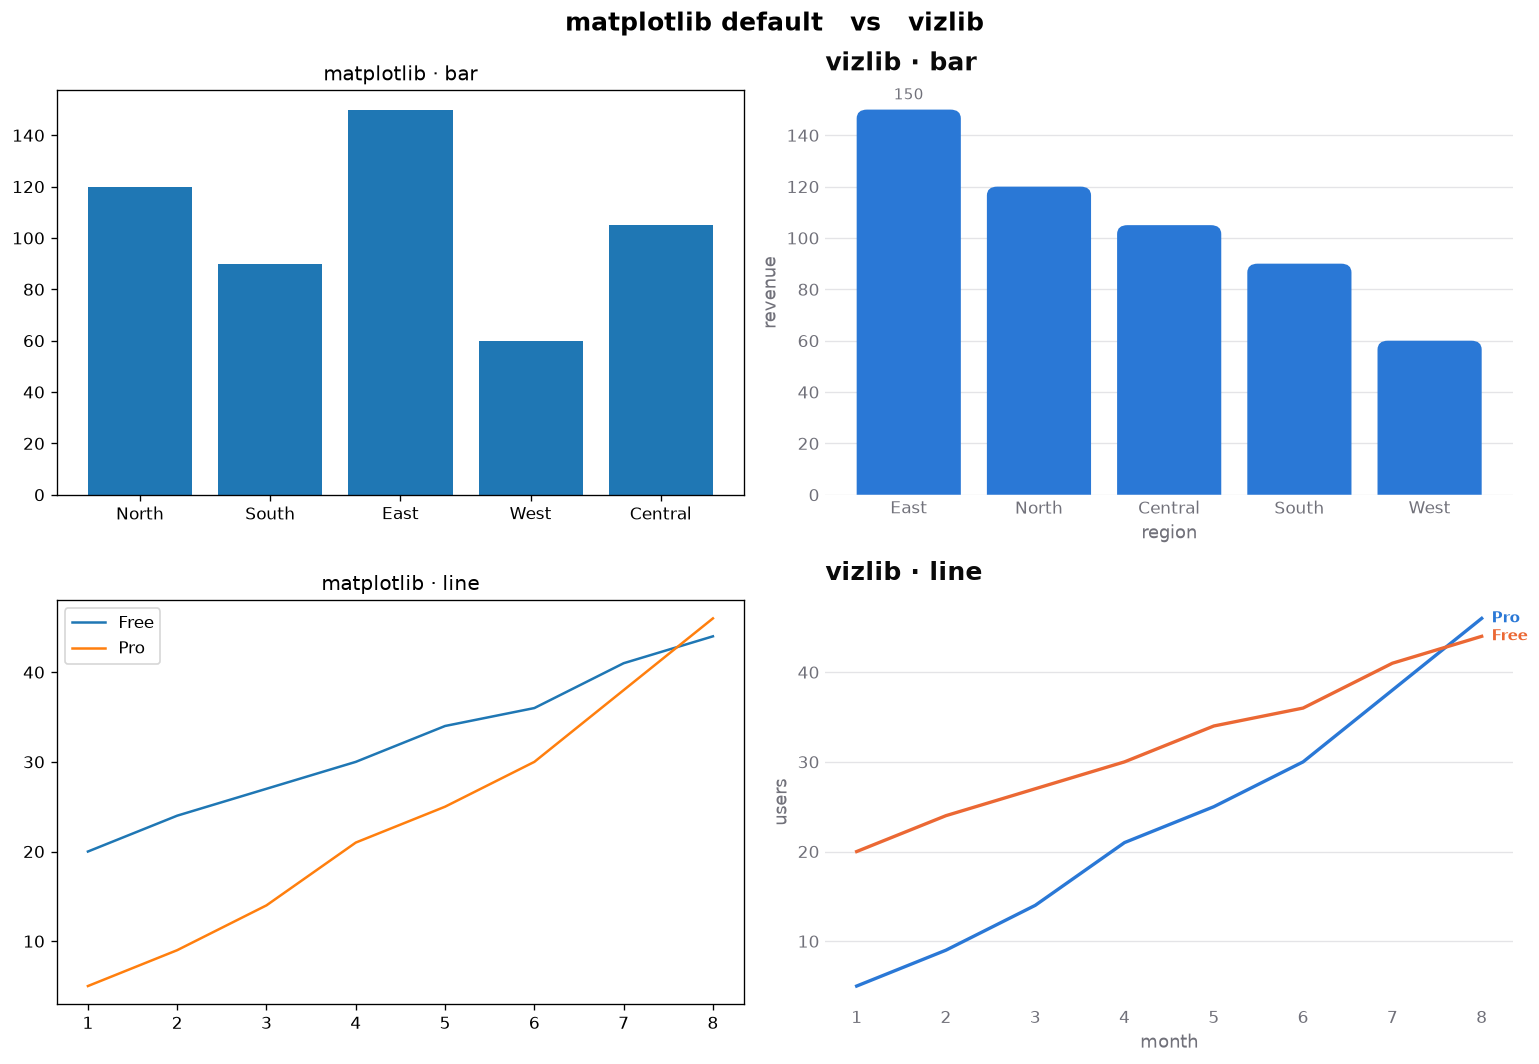
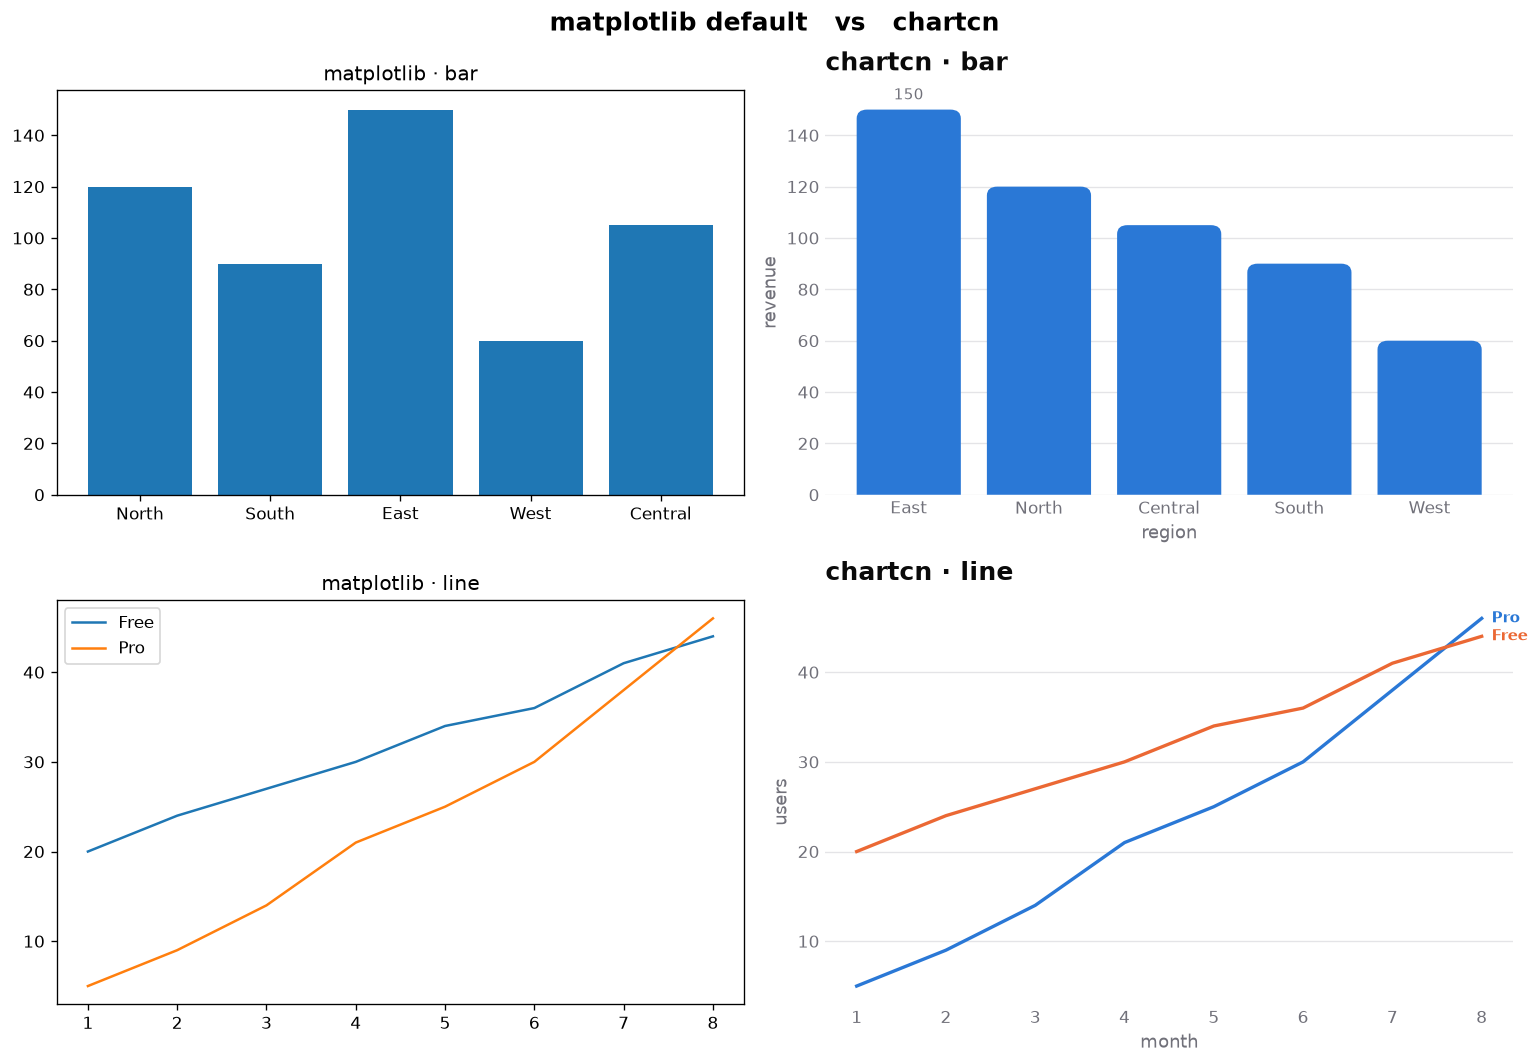
Rename package to chartcn and finish 0.1.0 packaging
Adopt the final distribution name and tidy the metadata for a first PyPI
release. Renames the import package vizlib -> chartcn (dir + all imports and
prose) so the import name matches the distribution name, and drops the
"working name / placeholder" banners now that the name is settled.

- pyproject: name = "chartcn"; wheel packages -> src/chartcn; add
  [project.urls] (Homepage/Repository/Issues); add "shadcn" keyword.
- src/vizlib -> src/chartcn (git rename; internals already use relative
  imports); update every `import vizlib` in tests/examples to chartcn.
- Docs (README/CLAUDE/mvp/examples): rename the product, remove the
  working-name notes.
- Add CHANGELOG.md with the 0.1.0 release notes.

Verified: 285 tests pass, ruff/black clean, `python -m build` produces
chartcn-0.1.0 wheel + sdist, and `twine check` passes on both.

Claude-Session: https://claude.ai/code/session_01SHA1ht7BUdjWvcxKPRCqGK

Changed region(s): [[0.3431, 0.0, 0.655, 0.093], [0.5302, 0.5273, 0.655, 0.5583]]

diff --git a/examples/before_after.py b/examples/before_after.py
@@ -1,8 +1,8 @@
-"""matplotlib default vs vizlib — the same data, the same one call.
+"""matplotlib default vs chartcn — the same data, the same one call.
 
-Each row draws a chart with raw matplotlib defaults (left) and with vizlib (right)
+Each row draws a chart with raw matplotlib defaults (left) and with chartcn (right)
 so the difference in defaults is obvious at a glance. This is the whole pitch:
-vizlib doesn't draw anything matplotlib can't — it just picks good defaults.
+chartcn doesn't draw anything matplotlib can't — it just picks good defaults.
 
 Run:  python examples/before_after.py
 """
@@ -13,7 +13,7 @@ import matplotlib as mpl
 import matplotlib.pyplot as plt
 import pandas as pd
 
-import vizlib as viz
+import chartcn as viz
 
 IMAGES = Path(__file__).parent / "images"
 
@@ -32,7 +32,7 @@ usage = pd.DataFrame(
 )
 
 # Start from matplotlib's true defaults so the left column is an honest "before"
-# (importing vizlib themes the global rcParams; reset them here). vizlib styles its
+# (importing chartcn themes the global rcParams; reset them here). chartcn styles its
 # own axes explicitly, so the right column is unaffected by this reset.
 mpl.rcParams.update(mpl.rcParamsDefault)
 
@@ -42,7 +42,7 @@ fig, axes = plt.subplots(2, 2, figsize=(13, 9))
 axes[0, 0].bar(sales["region"], sales["revenue"])
 axes[0, 0].set_title("matplotlib · bar")
 viz.bar(
-    sales, x="region", y="revenue", sort="desc", ax=axes[0, 1], title="vizlib · bar"
+    sales, x="region", y="revenue", sort="desc", ax=axes[0, 1], title="chartcn · bar"
 )
 
 # --- Row 2: multi-series line -------------------------------------------------
@@ -50,9 +50,9 @@ for plan, grp in usage.groupby("plan"):
     axes[1, 0].plot(grp["month"], grp["users"], label=plan)
 axes[1, 0].legend()
 axes[1, 0].set_title("matplotlib · line")
-viz.line(usage, x="month", y="users", by="plan", ax=axes[1, 1], title="vizlib · line")
+viz.line(usage, x="month", y="users", by="plan", ax=axes[1, 1], title="chartcn · line")
 
-fig.suptitle("matplotlib default   vs   vizlib", fontsize=15, fontweight="bold")
+fig.suptitle("matplotlib default   vs   chartcn", fontsize=15, fontweight="bold")
 fig.tight_layout()
 fig.savefig(IMAGES / "before_after.png", dpi=120, bbox_inches="tight")
 print("wrote", IMAGES / "before_after.png")

diff --git a/src/chartcn/themes.py b/src/chartcn/themes.py
@@ -3,9 +3,9 @@ theme state and the matplotlib ``rcParams`` application.
 
 The default look is **shadcn** — :data:`LIGHT` / :data:`DARK` carry the shadcn
 aesthetic (rounded bar ends, no axis spines, faint horizontal grid, zinc/card
-neutrals; both axes stay labeled) over vizlib's validated colorblind-safe palette.
+neutrals; both axes stay labeled) over chartcn's validated colorblind-safe palette.
 :data:`CLASSIC` / :data:`CLASSIC_DARK`
-preserve the original vizlib look, and :data:`LIME` / :data:`LIME_DARK` is a custom
+preserve the original chartcn look, and :data:`LIME` / :data:`LIME_DARK` is a custom
 theme. A theme is applied globally with :func:`set_theme` or scoped with the
 :func:`theme` context manager; individual chart calls can also override per-call via
 their ``theme=`` argument.
@@ -88,13 +88,13 @@ class Theme:
 
 
 # The default look is shadcn: rounded bar ends, no axis spines, a faint horizontal
-# grid, zinc/card neutrals, and an Arial-metric sans — over vizlib's validated
+# grid, zinc/card neutrals, and an Arial-metric sans — over chartcn's validated
 # colorblind-safe palette. Both axes stay labeled (ticks + axis title); only the
 # spines are dropped.
 _SHADCN_CHROME = dict(axis_lines=False, bar_radius=0.10)
 LIGHT = replace(Theme.from_mode("light"), **_SHADCN_CHROME)
 DARK = replace(Theme.from_mode("dark"), **_SHADCN_CHROME)
-# "classic" — the original vizlib look (hairline spines, visible value axis, square
+# "classic" — the original chartcn look (hairline spines, visible value axis, square
 # bars, default sans), kept for anyone who wants it.
 CLASSIC = replace(Theme.from_mode("classic"), name="classic")
 CLASSIC_DARK = replace(Theme.from_mode("classic-dark"), name="classic-dark")
@@ -193,5 +193,5 @@ def theme(theme: Theme | str):
         set_theme(previous)
 
 
-# Apply the default so importing vizlib themes matplotlib immediately.
+# Apply the default so importing chartcn themes matplotlib immediately.
 apply_theme(_active)

diff --git a/src/chartcn/palettes.py b/src/chartcn/palettes.py
@@ -1,4 +1,4 @@
-"""Validated color palettes and chrome tokens for vizlib.
+"""Validated color palettes and chrome tokens for chartcn.
 
 The categorical palette is eight hues in a **fixed, colorblind-safe order** — the
 order is the safety mechanism (adjacent-pair separation under simulated
@@ -84,7 +84,7 @@ DEEMPHASIS: dict[str, str] = {"light": "#898781", "dark": "#898781"}
 # --- Chrome & ink tokens -------------------------------------------------------
 # The default "light"/"dark" modes wear the shadcn look — pure-white / near-black
 # card surfaces and zinc neutrals (see shadcnStyle.md). The categorical palette above
-# stays vizlib's validated colorblind-safe set.
+# stays chartcn's validated colorblind-safe set.
 SURFACE: dict[str, str] = {"light": "#ffffff", "dark": "#101010"}
 PRIMARY_INK: dict[str, str] = {"light": "#0a0a0a", "dark": "#fafafa"}
 SECONDARY_INK: dict[str, str] = {"light": "#71717a", "dark": "#a1a1aa"}
@@ -101,7 +101,7 @@ FONT_FAMILY: dict[str, tuple[str, ...]] = {
     "dark": _SHADCN_FONT,
 }
 
-# --- "classic" modes: the original vizlib look (validated palette + classic chrome:
+# --- "classic" modes: the original chartcn look (validated palette + classic chrome:
 # hairline spines, a visible value axis, square bars, the default sans). Same
 # categorical/sequential/diverging as light/dark; only the neutrals differ.
 for _m, _base in (("classic", "light"), ("classic-dark", "dark")):

diff --git a/tests/test_themes.py b/tests/test_themes.py
@@ -3,8 +3,8 @@
 import matplotlib as mpl
 import pytest
 
-import vizlib as viz
-from vizlib.themes import apply_theme, resolve_theme
+import chartcn as viz
+from chartcn.themes import apply_theme, resolve_theme
 
 
 def test_builtin_themes_have_eight_categorical_hues():
@@ -55,13 +55,13 @@ def test_default_light_dark_are_shadcn_styled():
         assert th.axis_lines is False
         assert th.bar_radius > 0
         assert th.value_axis is True
-    # ...over vizlib's validated CVD-safe palette (blue lead), not coral/teal.
+    # ...over chartcn's validated CVD-safe palette (blue lead), not coral/teal.
     assert viz.LIGHT.categorical[0] == "#2a78d6"
     assert viz.LIGHT.categorical == viz.CLASSIC.categorical
 
 
 def test_classic_themes_keep_the_original_chrome():
-    from vizlib.themes import resolve_theme
+    from chartcn.themes import resolve_theme
 
     assert resolve_theme("classic") is viz.CLASSIC
     assert resolve_theme("classic-dark") is viz.CLASSIC_DARK

diff --git a/examples/horizontal_and_counts.py b/examples/horizontal_and_counts.py
@@ -7,7 +7,7 @@ from pathlib import Path
 
 import pandas as pd
 
-import vizlib as viz
+import chartcn as viz
 
 IMAGES = Path(__file__).parent / "images"
 
@@ -29,7 +29,7 @@ ax = viz.bar(
 ax.figure.savefig(IMAGES / "horizontal_bar.png", dpi=120, bbox_inches="tight")
 print("wrote", IMAGES / "horizontal_bar.png")
 
-# Omit `y` and vizlib counts rows per category — a frequency chart.
+# Omit `y` and chartcn counts rows per category — a frequency chart.
 survey = pd.DataFrame({"grade": list("AABBBCADBBAACB")})
 ax = viz.bar(survey, x="grade", sort="desc", title="Grade distribution (row counts)")
 ax.figure.savefig(IMAGES / "counts.png", dpi=120, bbox_inches="tight")

diff --git a/examples/light_and_dark.py b/examples/light_and_dark.py
@@ -1,6 +1,6 @@
 """Light and dark mode — the default shadcn look in both.
 
-vizlib renders the shadcn aesthetic by default (rounded bars, no axis spines, hidden
+chartcn renders the shadcn aesthetic by default (rounded bars, no axis spines, hidden
 value axis, faint grid) over the validated colorblind-safe palette. The default theme
 is `light`; `theme="dark"` (or `viz.set_theme("dark")`) gives the dark card.
 
@@ -11,7 +11,7 @@ from pathlib import Path
 
 import pandas as pd
 
-import vizlib as viz
+import chartcn as viz
 
 IMAGES = Path(__file__).parent / "images"
 

diff --git a/src/chartcn/__init__.py b/src/chartcn/__init__.py
@@ -1,10 +1,10 @@
-"""vizlib — an opinionated matplotlib wrapper for pandas DataFrames.
+"""chartcn — an opinionated matplotlib wrapper for pandas DataFrames.
 
 Good defaults, applied automatically: colorblind-safe palettes, recessive chrome,
 selective labels, an emphasis mode, and a real dark theme. Every chart returns the
 underlying matplotlib ``Axes`` so you can always drop down to raw matplotlib.
 
-    >>> import vizlib as viz
+    >>> import chartcn as viz
     >>> ax = viz.bar(sales, x="region", y="revenue", sort="desc")
 """
 

diff --git a/src/chartcn/charts/line.py b/src/chartcn/charts/line.py
@@ -48,7 +48,7 @@ def line(
 ) -> Axes:
     """Draw a themed line chart from ``df`` and return the matplotlib ``Axes``.
 
-    Parameters mirror :func:`vizlib.bar`. ``y=None`` counts rows per ``x``; duplicate
+    Parameters mirror :func:`chartcn.bar`. ``y=None`` counts rows per ``x``; duplicate
     ``(x, series)`` values are averaged. ``highlight`` (matched against ``by`` series)
     accents the selected line(s) and grays the rest.
 

diff --git a/tests/test_render_matrix.py b/tests/test_render_matrix.py
@@ -12,7 +12,7 @@ import pandas as pd
 import pytest
 from matplotlib.axes import Axes
 
-import vizlib as viz
+import chartcn as viz
 
 THEMES = [None, "light", "dark", "classic", "classic-dark", "lime", "lime-dark"]
 

diff --git a/examples/black_and_white.py b/examples/black_and_white.py
@@ -15,7 +15,7 @@ import matplotlib.pyplot as plt
 import numpy as np
 import pandas as pd
 
-import vizlib as viz
+import chartcn as viz
 
 IMAGES = Path(__file__).parent / "images"
 

diff --git a/tests/test_bar.py b/tests/test_bar.py
@@ -6,7 +6,7 @@ import pytest
 from matplotlib.axes import Axes
 from matplotlib.colors import to_hex
 
-import vizlib as viz
+import chartcn as viz
 
 
 @pytest.fixture(autouse=True)

diff --git a/tests/test_hist.py b/tests/test_hist.py
@@ -7,7 +7,7 @@ import pytest
 from matplotlib.axes import Axes
 from matplotlib.colors import to_hex
 
-import vizlib as viz
+import chartcn as viz
 
 
 @pytest.fixture(autouse=True)
